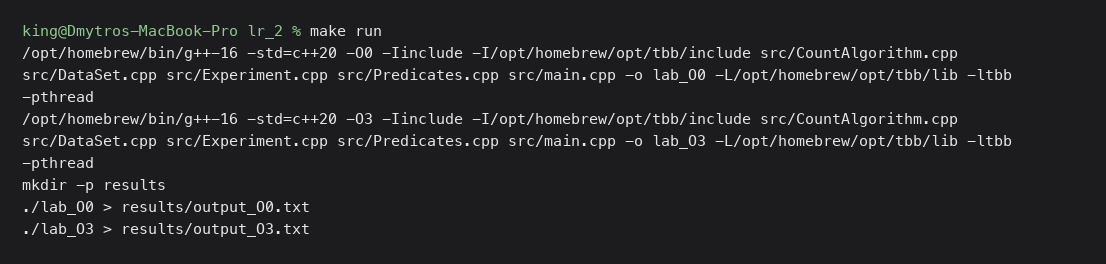
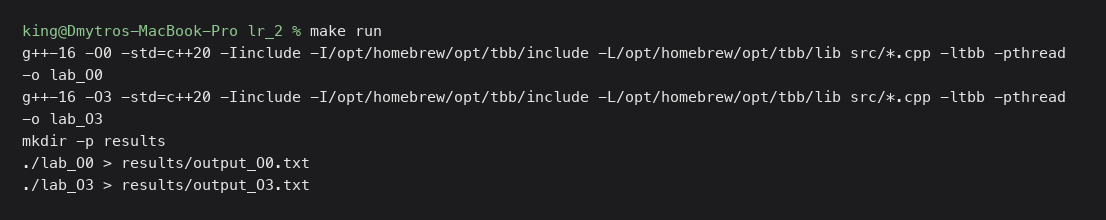
update

Changed region(s): [[0.0, 0.0818, 0.9837, 0.3818], [0.0, 0.4091, 0.9837, 0.5727], [0.0, 0.6, 0.2767, 0.9]]

diff --git a/src/CountAlgorithm.cpp b/src/CountAlgorithm.cpp
@@ -1,7 +1,6 @@
 #include "CountAlgorithm.h"
 
 #include <algorithm>
-#include <functional>
 #include <numeric>
 #include <thread>
 
@@ -18,27 +17,21 @@ std::string CountCustomParallel::name() const {
     return "custom(K=" + std::to_string(partsCount_) + ")";
 }
 
-void CountCustomParallel::countInRange(const std::vector<int> &data, PredicateFn pred,
-                                       int begin, int end, long long &count) {
-    count = std::count_if(data.begin() + begin, data.begin() + end, pred);
-}
-
 long long CountCustomParallel::count(const std::vector<int> &data, PredicateFn pred) const {
-    int n = (int)data.size();
-    int chunkSize = n / partsCount_;
-
-    std::vector<std::thread> threads(partsCount_);
+    const std::size_t n = data.size();
     std::vector<long long> partialCounts(partsCount_);
+    std::vector<std::thread> threads;
 
-    int begin = 0;
     for (int t = 0; t < partsCount_; t++) {
-        int end = (t == partsCount_ - 1) ? n : begin + chunkSize;
-        threads[t] = std::thread(countInRange, std::cref(data), pred, begin, end, std::ref(partialCounts[t]));
-        begin = end;
+        auto first = data.begin() + n * t / partsCount_;
+        auto last = data.begin() + n * (t + 1) / partsCount_;
+        threads.emplace_back([=, &partialCounts] {
+            partialCounts[t] = std::count_if(first, last, pred);
+        });
     }
 
-    for (int t = 0; t < partsCount_; t++) {
-        threads[t].join();
+    for (std::thread &thread : threads) {
+        thread.join();
     }
 
     return std::reduce(partialCounts.begin(), partialCounts.end(), 0LL);

diff --git a/include/CountAlgorithm.h b/include/CountAlgorithm.h
@@ -52,8 +52,5 @@ public:
     long long count(const std::vector<int> &data, PredicateFn pred) const override;
 
 private:
-    static void countInRange(const std::vector<int> &data, PredicateFn pred,
-                             int begin, int end, long long &count);
-
     int partsCount_;
 };

diff --git a/README.md b/README.md
@@ -80,10 +80,10 @@ make run
 Це не про паралелізм (`par` проти `seq`), а про те, наскільки ефективний
 машинний код взагалі згенерував компілятор.
 
-- `-O0`: ~711 мс
-- `-O3`: ~274 мс
+- `-O0`: ~715 мс
+- `-O3`: ~268 мс
 
-Тобто сам рівень оптимізації дає ~2.6× прискорення без жодної зміни коду.
+Тобто сам рівень оптимізації дає ~2.7× прискорення без жодної зміни коду.
 
 ## Структура коду
 
